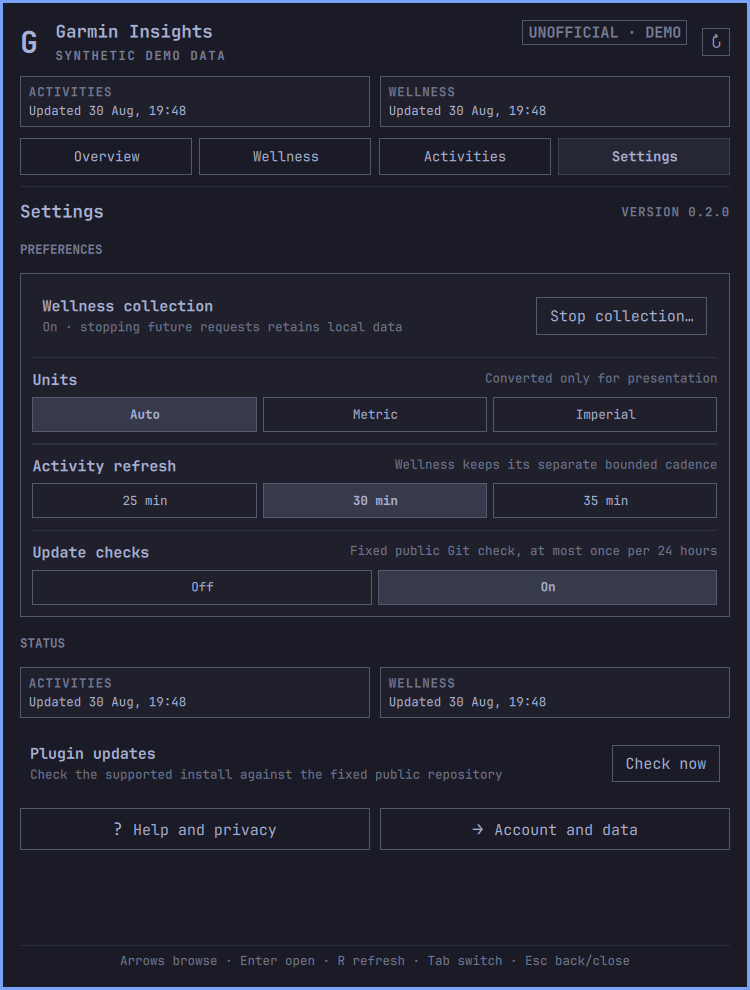
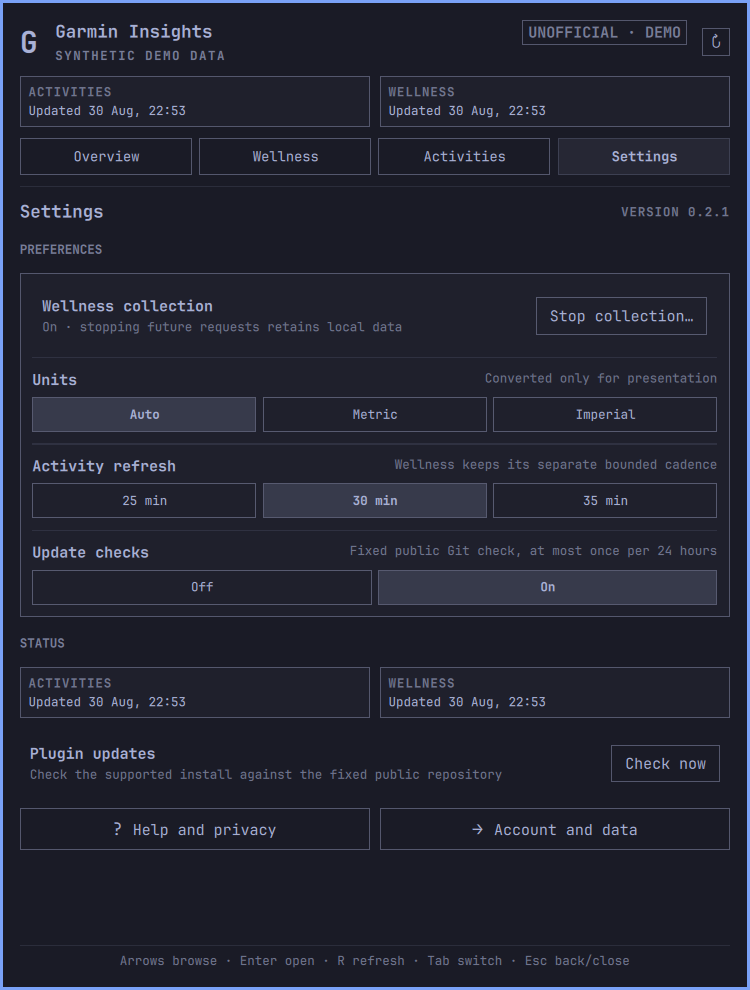
Prepare 0.2.1 release (#29)

diff --git a/README.md b/README.md
@@ -4,7 +4,7 @@ Garmin Insights puts recent Garmin Connect activities and daily wellness data in
 
 ![Garmin Insights Overview with fabricated activity and wellness data](preview.png)
 
-Current release: [`v0.2.0`](https://github.com/paulpitchford/omarchy-garmin-insights/releases/tag/v0.2.0)
+Current release: [`v0.2.1`](https://github.com/paulpitchford/omarchy-garmin-insights/releases/tag/v0.2.1)
 
 Plugin ID: `io.github.paulpitchford.garmin-insights`
 
